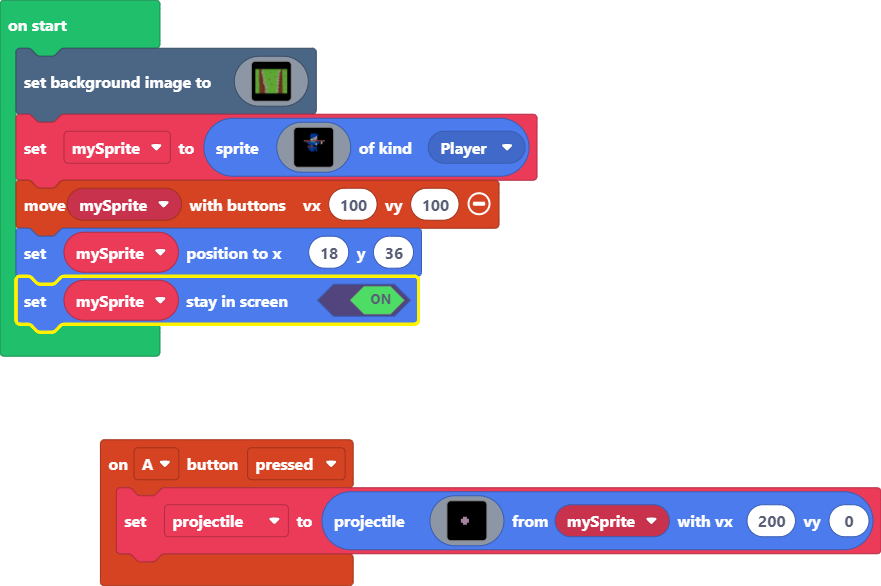
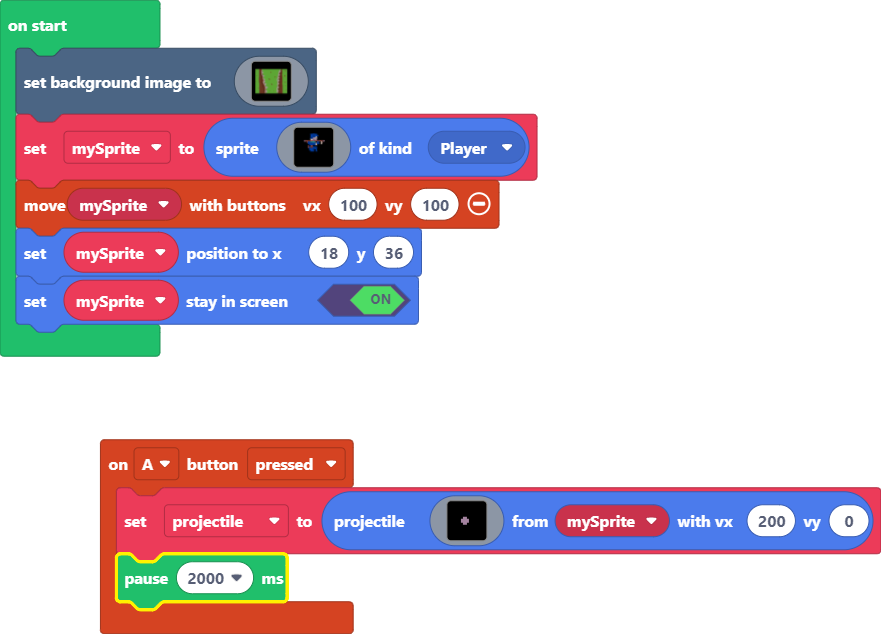
Update main.blocks, main.ts

Changed region(s): [[0.0, 0.0307, 0.6129, 0.6143], [0.0919, 0.6758, 1.0, 0.9829]]

diff --git a/main.ts b/main.ts
@@ -17,6 +17,7 @@ controller.A.onEvent(ControllerButtonEvent.Pressed, function () {
         . . . . . . . . . . . . . . . . 
         . . . . . . . . . . . . . . . . 
         `, mySprite, 200, 0)
+    pause(2000)
 })
 let projectile: Sprite = null
 let mySprite: Sprite = null
